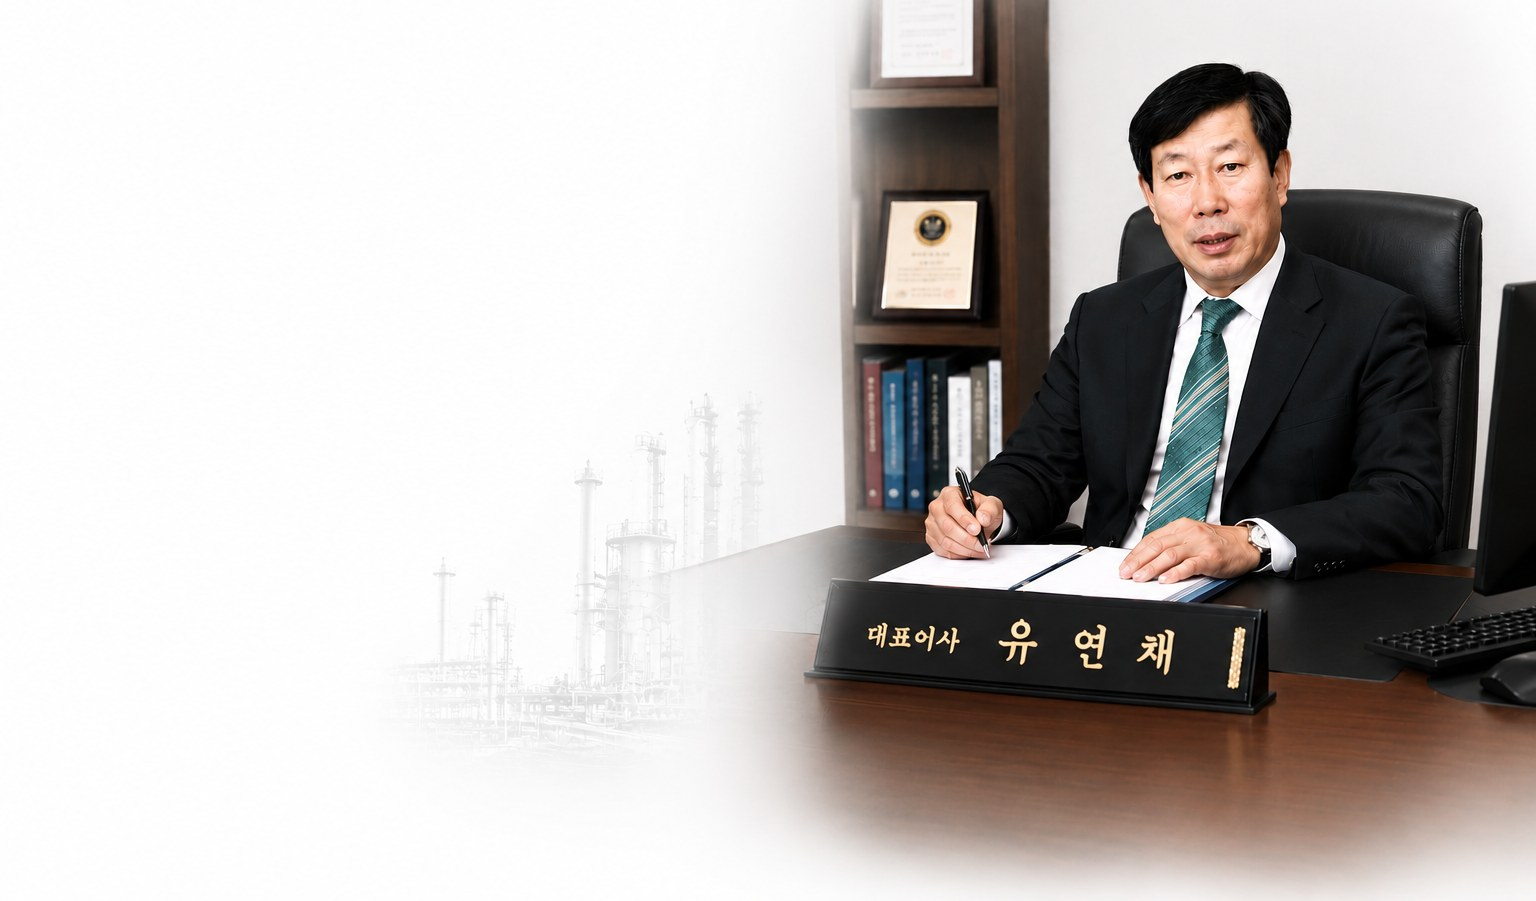
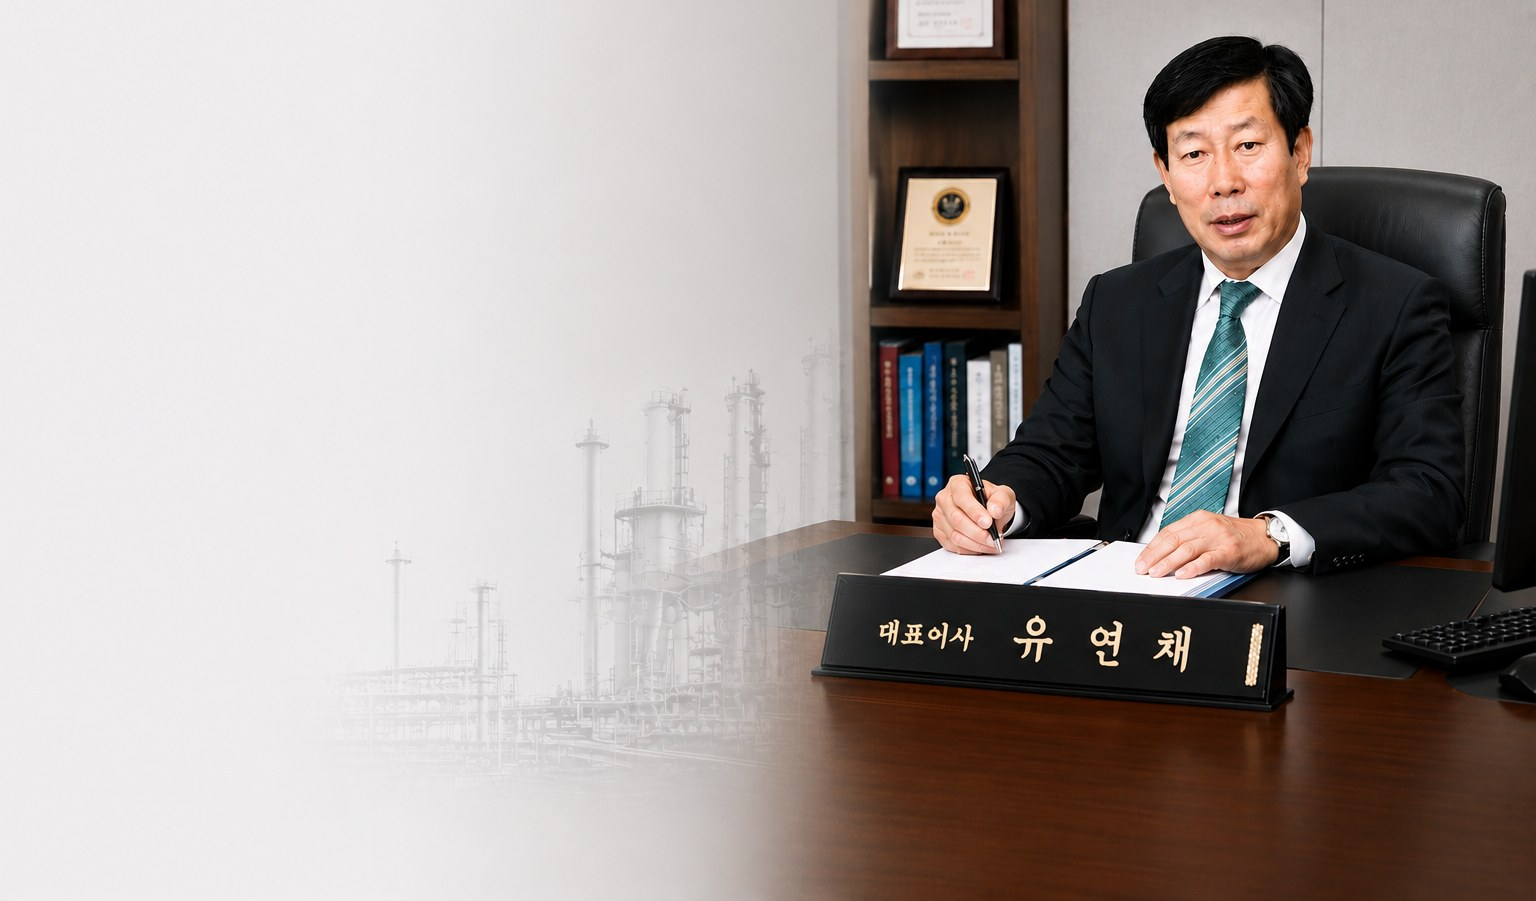
CEO 인사말: 대표사진 새 컷 교체(ceo-message-bg.jpg?v=20260731-5) + 배경 이미지 가장자리 페더링(mask 그라데이션)으로 흰 배경에 자연 블렌딩(하드 카드 경계·그림자 제거), style.css 캐시버전 ?v=20260731-11

diff --git a/assets/css/style.css b/assets/css/style.css
@@ -538,8 +538,19 @@ section[id] { scroll-margin-top: 88px; }
 .greeting { display: grid; grid-template-columns: 1.15fr 0.85fr; gap: var(--space-12); align-items: center; }
 .greeting__media img { border-radius: var(--radius-lg); box-shadow: var(--shadow-md); width: 100%; }
 /* CEO 메시지 배너: 배경 이미지(우측 인물) + 좌측 텍스트 오버레이 */
-.cmsg { position: relative; overflow: hidden; border-radius: var(--radius-lg); box-shadow: var(--shadow-md); isolation: isolate; }
-.cmsg__bg { position: absolute; inset: 0; width: 100%; height: 100%; object-fit: cover; object-position: right center; z-index: 0; }
+.cmsg { position: relative; isolation: isolate; }
+/* 배경 이미지 가장자리를 투명하게 페더링해 흰 배경에 자연스럽게 블렌딩 */
+.cmsg__bg {
+  position: absolute; inset: 0; width: 100%; height: 100%; object-fit: cover; object-position: right center; z-index: 0;
+  -webkit-mask-image:
+    linear-gradient(90deg, transparent 0, #000 5%, #000 92%, transparent 100%),
+    linear-gradient(180deg, transparent 0, #000 9%, #000 88%, transparent 100%);
+  -webkit-mask-composite: source-in; -webkit-mask-repeat: no-repeat;
+  mask-image:
+    linear-gradient(90deg, transparent 0, #000 5%, #000 92%, transparent 100%),
+    linear-gradient(180deg, transparent 0, #000 9%, #000 88%, transparent 100%);
+  mask-composite: intersect; mask-repeat: no-repeat;
+}
 /* 좌측 텍스트 가독성용 흰색 스크림(왼→오 페이드) */
 .cmsg::after {
   content: ""; position: absolute; inset: 0; z-index: 1;

diff --git a/company.html b/company.html
@@ -7,7 +7,7 @@
   <meta name="description" content="한국탄산화학㈜ 회사소개 — CEO 인사말, 연혁, 꾸준한 성장.">
   <link rel="stylesheet" href="assets/css/reset.css">
   <link rel="stylesheet" href="assets/css/variables.css">
-  <link rel="stylesheet" href="assets/css/style.css?v=20260731-10">
+  <link rel="stylesheet" href="assets/css/style.css?v=20260731-11">
   <!-- 대표이사 서명용 손글씨 폰트 (한글: Nanum Pen Script, 일어: Yomogi) -->
   <link rel="preconnect" href="https://fonts.googleapis.com">
   <link rel="preconnect" href="https://fonts.gstatic.com" crossorigin>
@@ -127,7 +127,7 @@
     <section class="section" id="greeting">
       <div class="container">
        <div class="cmsg">
-        <img class="cmsg__bg" src="assets/images/site/ceo-message-bg.jpg?v=20260731-4" alt="한국탄산화학㈜ 대표이사 유연채">
+        <img class="cmsg__bg" src="assets/images/site/ceo-message-bg.jpg?v=20260731-5" alt="한국탄산화학㈜ 대표이사 유연채">
         <div class="cmsg__body">
           <span class="eyebrow" data-i18n="company.greeting.eyebrow">CEO Message</span>
           <h2 class="section__title" data-i18n="company.greeting.title">신뢰와 기술로 가스 산업의 미래를 만듭니다</h2>

diff --git a/company-overview.html b/company-overview.html
@@ -7,7 +7,7 @@
   <meta name="description" content="한국탄산화학㈜ 회사 개요와 조직도 — 상호·설립·사업분야·생산제품 및 조직 구성.">
   <link rel="stylesheet" href="assets/css/reset.css">
   <link rel="stylesheet" href="assets/css/variables.css">
-  <link rel="stylesheet" href="assets/css/style.css?v=20260731-10">
+  <link rel="stylesheet" href="assets/css/style.css?v=20260731-11">
   <!-- 대표이사 서명용 손글씨 폰트 (한글: Nanum Pen Script, 일어: Yomogi) -->
   <link rel="preconnect" href="https://fonts.googleapis.com">
   <link rel="preconnect" href="https://fonts.gstatic.com" crossorigin>

diff --git a/company-network.html b/company-network.html
@@ -7,7 +7,7 @@
   <meta name="description" content="한국탄산화학㈜ 계열사와 오시는 길 — 관계사 네트워크 및 사업장 위치·연락처.">
   <link rel="stylesheet" href="assets/css/reset.css">
   <link rel="stylesheet" href="assets/css/variables.css">
-  <link rel="stylesheet" href="assets/css/style.css?v=20260731-10">
+  <link rel="stylesheet" href="assets/css/style.css?v=20260731-11">
   <!-- 대표이사 서명용 손글씨 폰트 (한글: Nanum Pen Script, 일어: Yomogi) -->
   <link rel="preconnect" href="https://fonts.googleapis.com">
   <link rel="preconnect" href="https://fonts.gstatic.com" crossorigin>

diff --git a/index.html b/index.html
@@ -7,7 +7,7 @@
   <meta name="description" content="한국탄산화학㈜(KLCC)는 산소·질소·아르곤·탄산·수소 등 산업용·의료용 가스와 드라이아이스를 제조·공급하는 전문기업입니다.">
   <link rel="stylesheet" href="assets/css/reset.css">
   <link rel="stylesheet" href="assets/css/variables.css">
-  <link rel="stylesheet" href="assets/css/style.css?v=20260731-10">
+  <link rel="stylesheet" href="assets/css/style.css?v=20260731-11">
 </head>
 <body>
 

diff --git a/products-gas.html b/products-gas.html
@@ -7,7 +7,7 @@
   <meta name="description" content="산업용·의료용·혼합·특수·액화석유가스 — 고순도 산소·질소·아르곤·수소·헬륨·탄산·LPG를 Bulk·실린더로 공급·제조합니다.">
   <link rel="stylesheet" href="assets/css/reset.css">
   <link rel="stylesheet" href="assets/css/variables.css">
-  <link rel="stylesheet" href="assets/css/style.css?v=20260731-10">
+  <link rel="stylesheet" href="assets/css/style.css?v=20260731-11">
 </head>
 <body>
 

diff --git a/products-supply.html b/products-supply.html
@@ -7,7 +7,7 @@
   <meta name="description" content="고압가스 용기의 안전을 위한 자체 고압용기 검사장 운영 — 정기 재검사와 고압가스 안전관리 기준 준수.">
   <link rel="stylesheet" href="assets/css/reset.css">
   <link rel="stylesheet" href="assets/css/variables.css">
-  <link rel="stylesheet" href="assets/css/style.css?v=20260731-10">
+  <link rel="stylesheet" href="assets/css/style.css?v=20260731-11">
 </head>
 <body>
 

diff --git a/products-ice.html b/products-ice.html
@@ -7,7 +7,7 @@
   <meta name="description" content="드라이아이스 너겟·블록 생산설비 日産 150톤. 신선식품 택배 보냉용 필수재와 시장 전망을 소개합니다.">
   <link rel="stylesheet" href="assets/css/reset.css">
   <link rel="stylesheet" href="assets/css/variables.css">
-  <link rel="stylesheet" href="assets/css/style.css?v=20260731-10">
+  <link rel="stylesheet" href="assets/css/style.css?v=20260731-11">
 </head>
 <body>
 

diff --git a/products-construction.html b/products-construction.html
@@ -7,7 +7,7 @@
   <meta name="description" content="가스 저장탱크 설치부터 배관·공급설비 시공, 안전관리·검사까지 일괄 수행합니다.">
   <link rel="stylesheet" href="assets/css/reset.css">
   <link rel="stylesheet" href="assets/css/variables.css">
-  <link rel="stylesheet" href="assets/css/style.css?v=20260731-10">
+  <link rel="stylesheet" href="assets/css/style.css?v=20260731-11">
 </head>
 <body>
 

diff --git a/quality.html b/quality.html
@@ -7,7 +7,7 @@
   <meta name="description" content="고순도 제조 역량, 식품첨가물 탄산가스 품질, 용기검사장, Gas Service Team.">
   <link rel="stylesheet" href="assets/css/reset.css">
   <link rel="stylesheet" href="assets/css/variables.css">
-  <link rel="stylesheet" href="assets/css/style.css?v=20260731-10">
+  <link rel="stylesheet" href="assets/css/style.css?v=20260731-11">
 </head>
 <body>
 

diff --git a/support.html b/support.html
@@ -7,7 +7,7 @@
   <meta name="description" content="한국탄산화학 고객지원 — 사업장 연락처, 자주 묻는 질문.">
   <link rel="stylesheet" href="assets/css/reset.css">
   <link rel="stylesheet" href="assets/css/variables.css">
-  <link rel="stylesheet" href="assets/css/style.css?v=20260731-10">
+  <link rel="stylesheet" href="assets/css/style.css?v=20260731-11">
 </head>
 <body>
 
